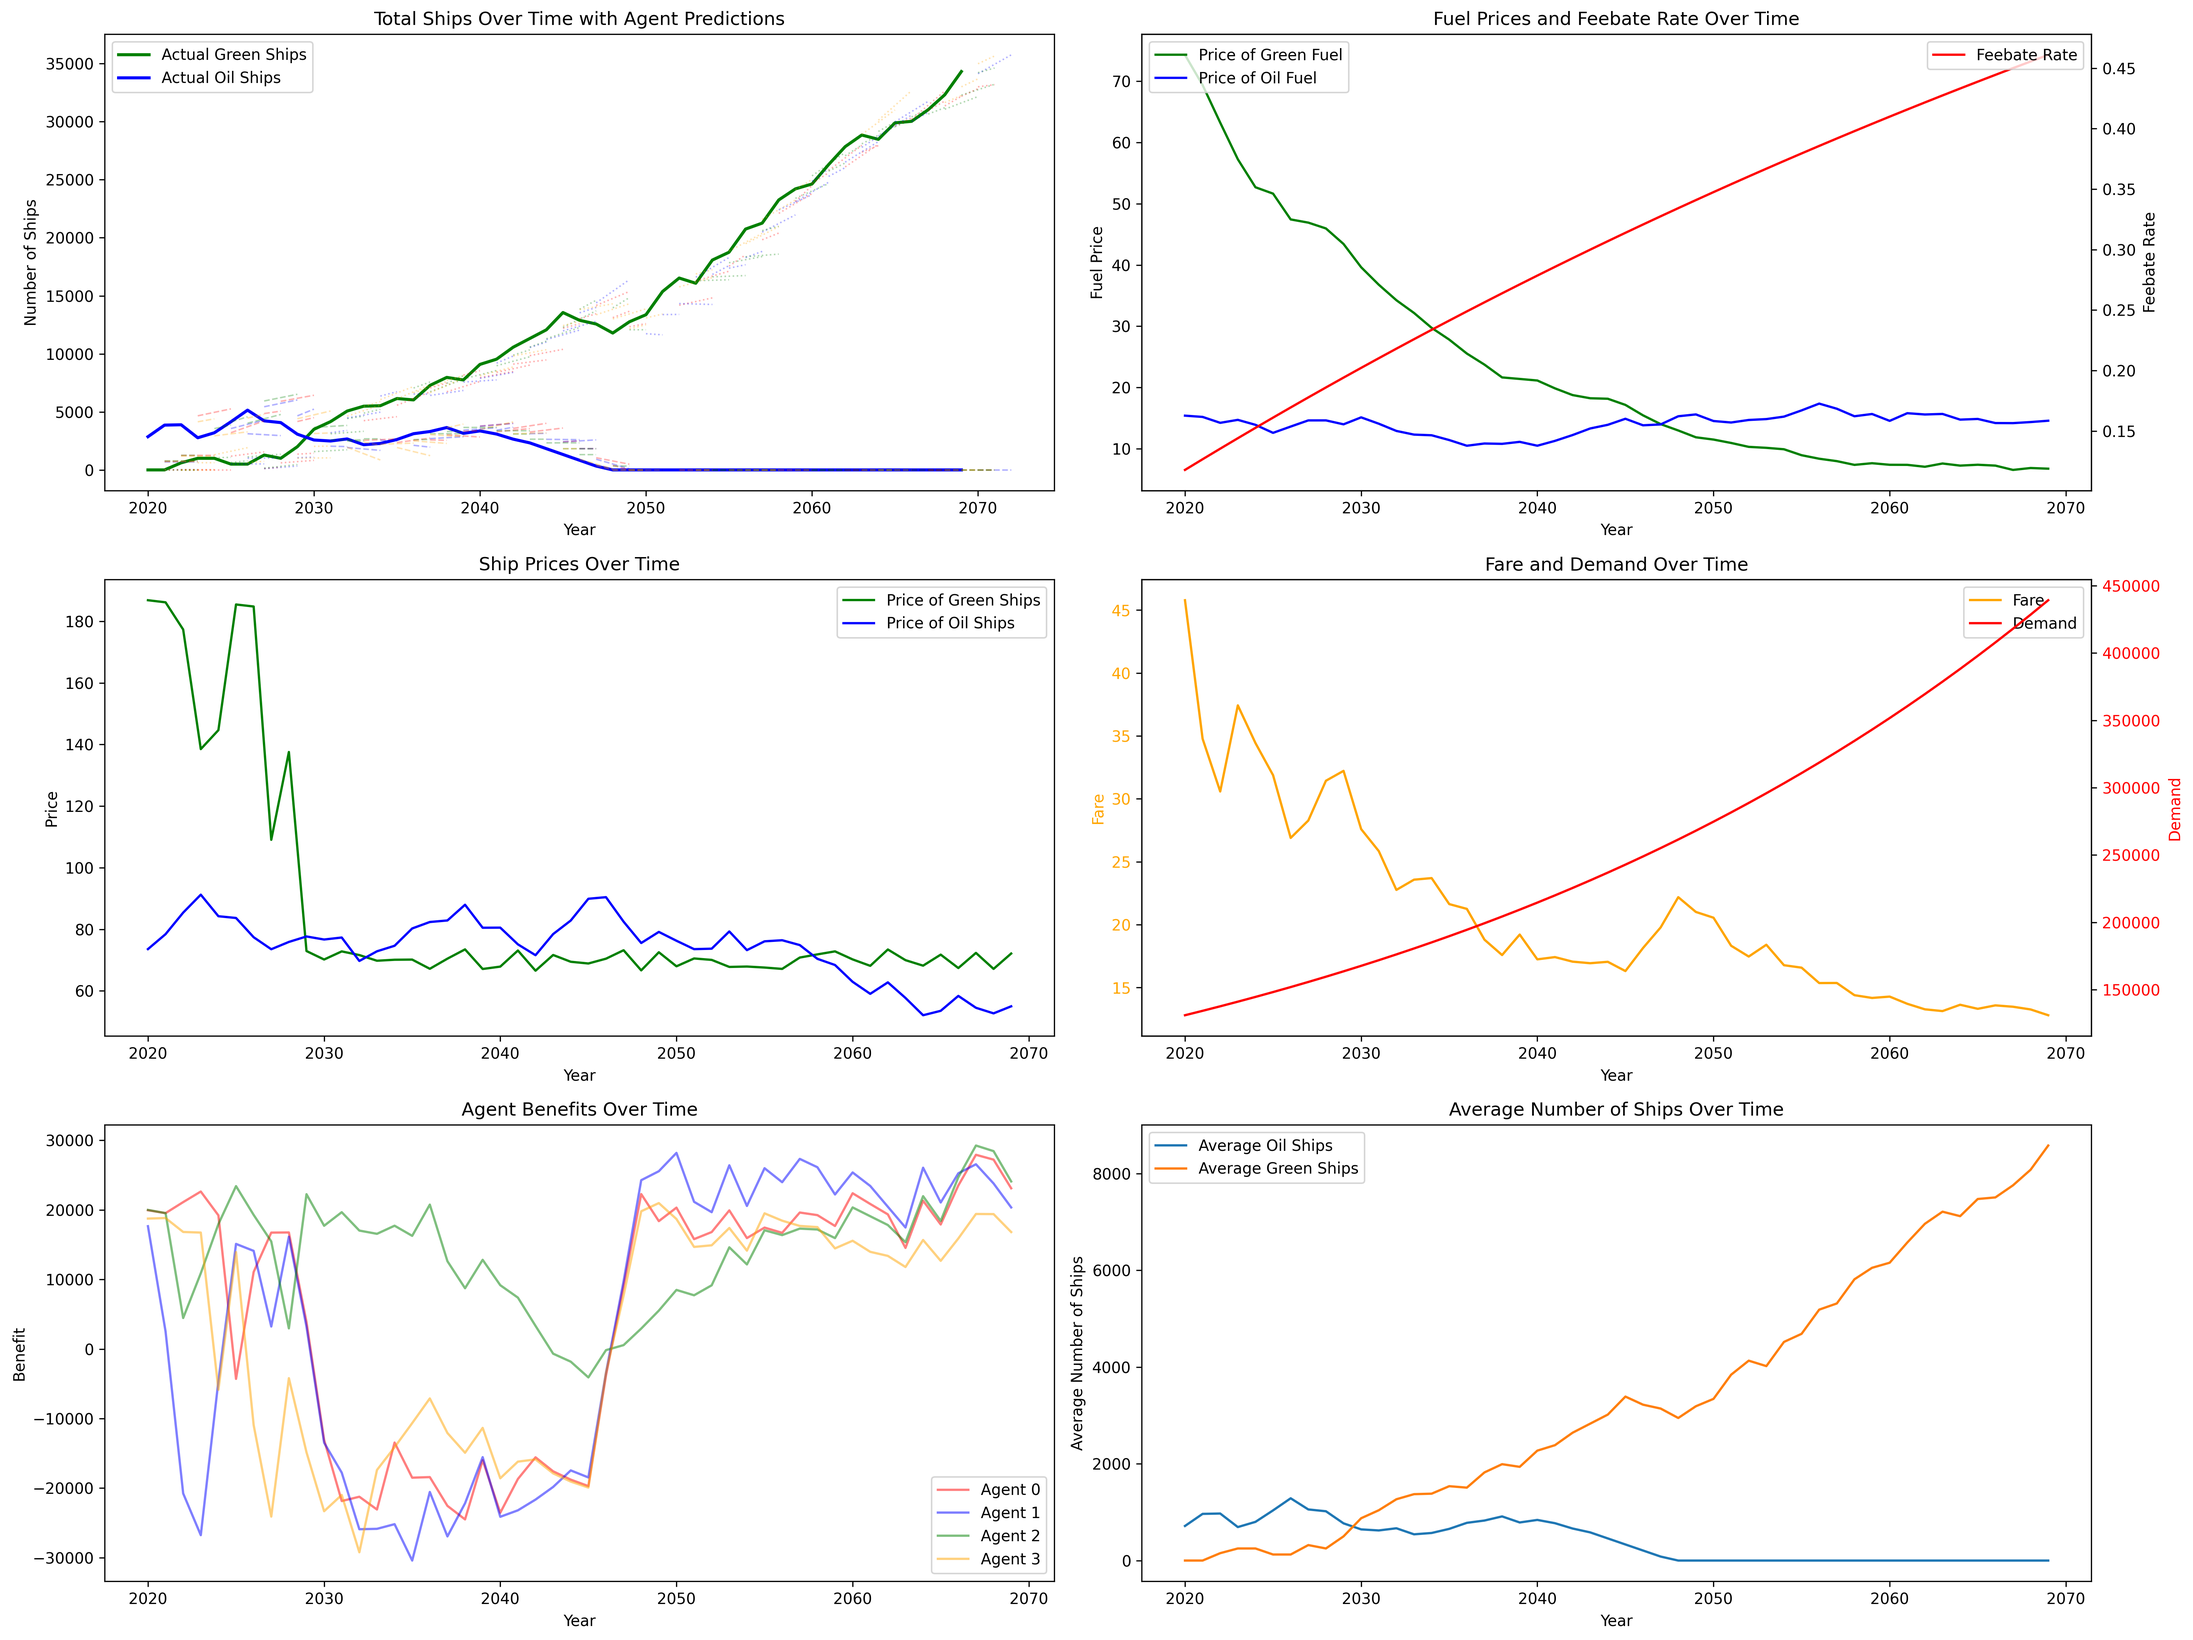
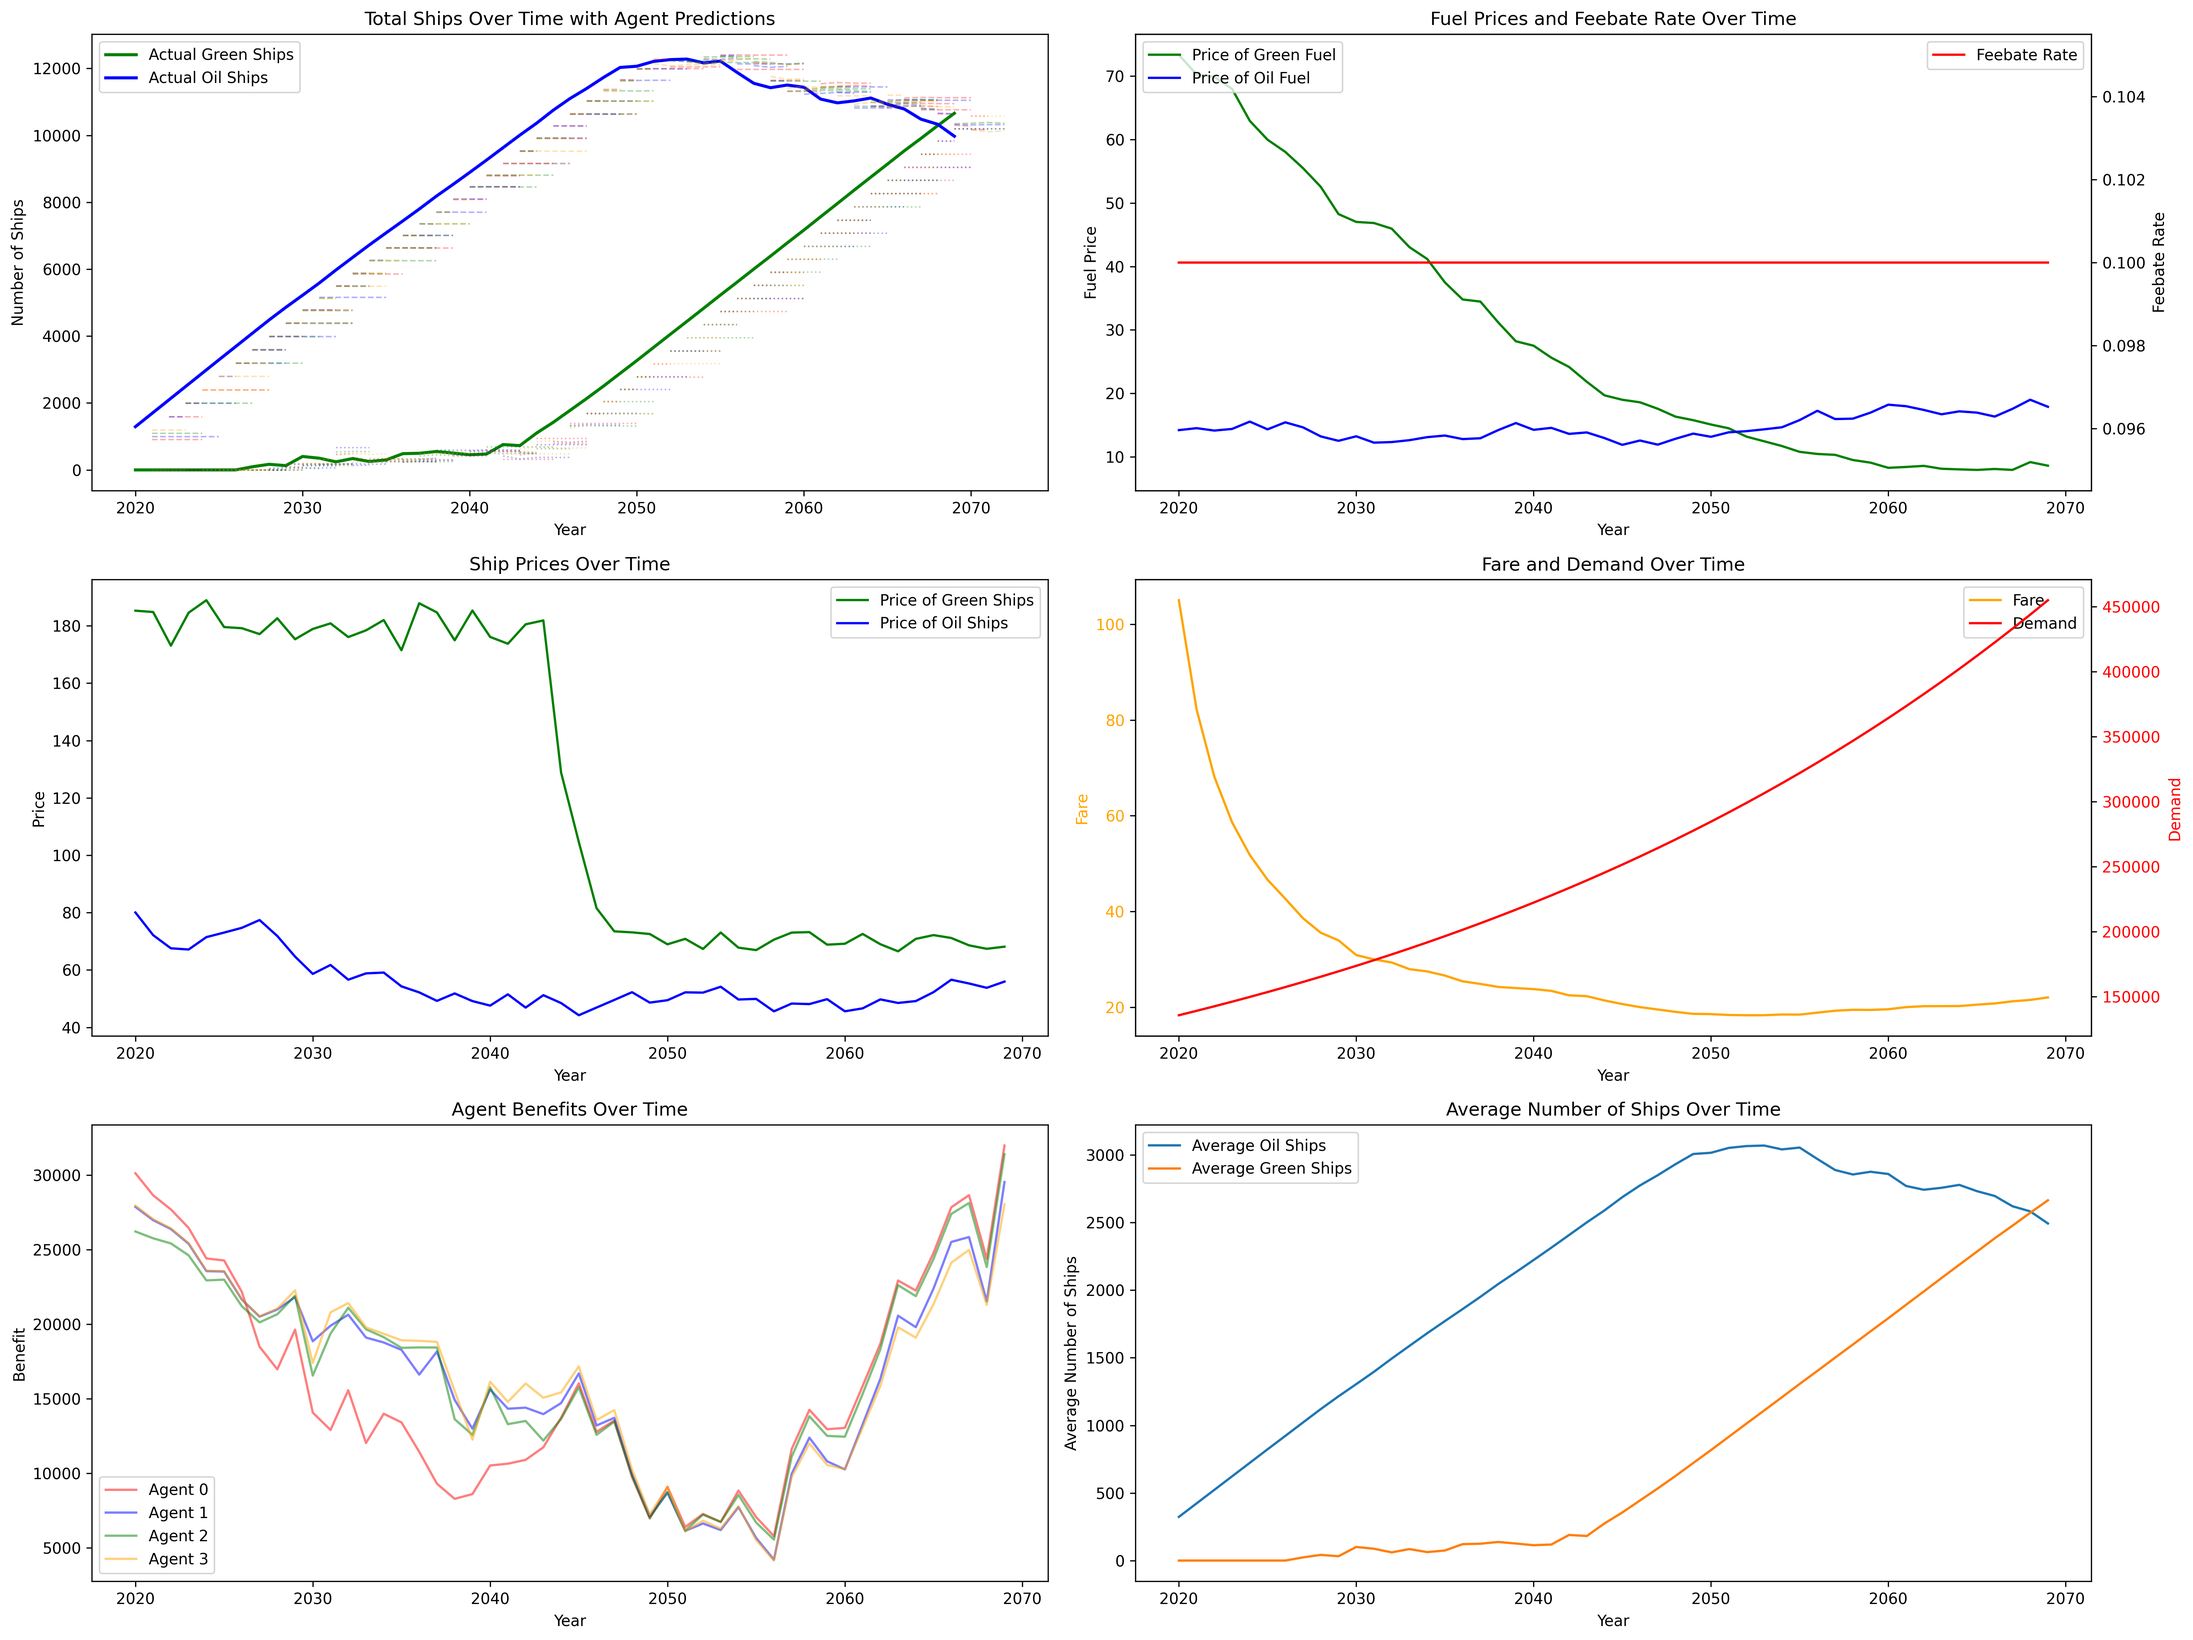
linear_predまち

diff --git a/R&D.py b/R&D.py
@@ -1,8 +1,9 @@
 import base
+import linear_pred
 from base import Agent, Env, Simulation, DISCOUNT_RATE
 import random
 
-class CustomAgent(Agent):
+class CustomAgent(linear_pred.CustomAgent):
     def __init__(self, i):
         super().__init__(i)
         self.n_green = 0
@@ -118,6 +119,7 @@ class CustomSimulation(Simulation):
             self.demand_history.append(self.env.demand)
             self.agent_avg_oil.append(sum(agent.n_oil for agent in self.agents) / len(self.agents))
             self.agent_avg_green.append(sum(agent.n_green for agent in self.agents) / len(self.agents))
+            self.feebate_rate_history.append(self.env.feebate_rate)
 
             # エージェントごとの利益を記録
             for i, agent in enumerate(self.agents):
@@ -148,7 +150,7 @@ if __name__ == '__main__':
     sim.run()
     sim.plot()
 
-if __name__ == '__main__':
-    sim = CustomSimulation()
-    sim.run()
-    sim.plot()
+# if __name__ == '__main__':
+#     sim = CustomSimulation()
+#     sim.run()
+#     sim.plot()
